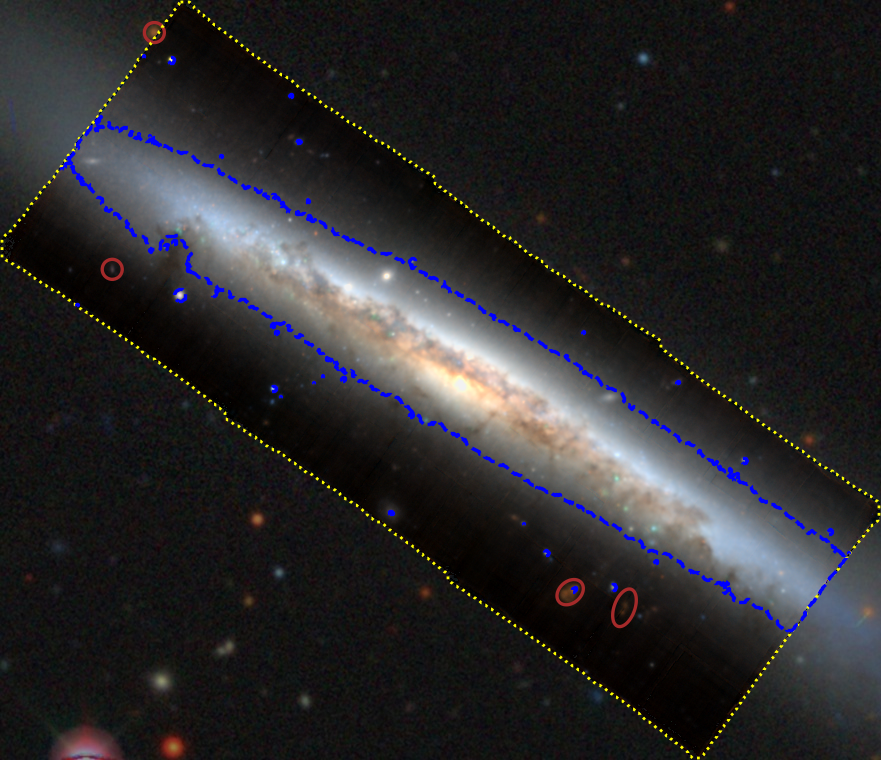
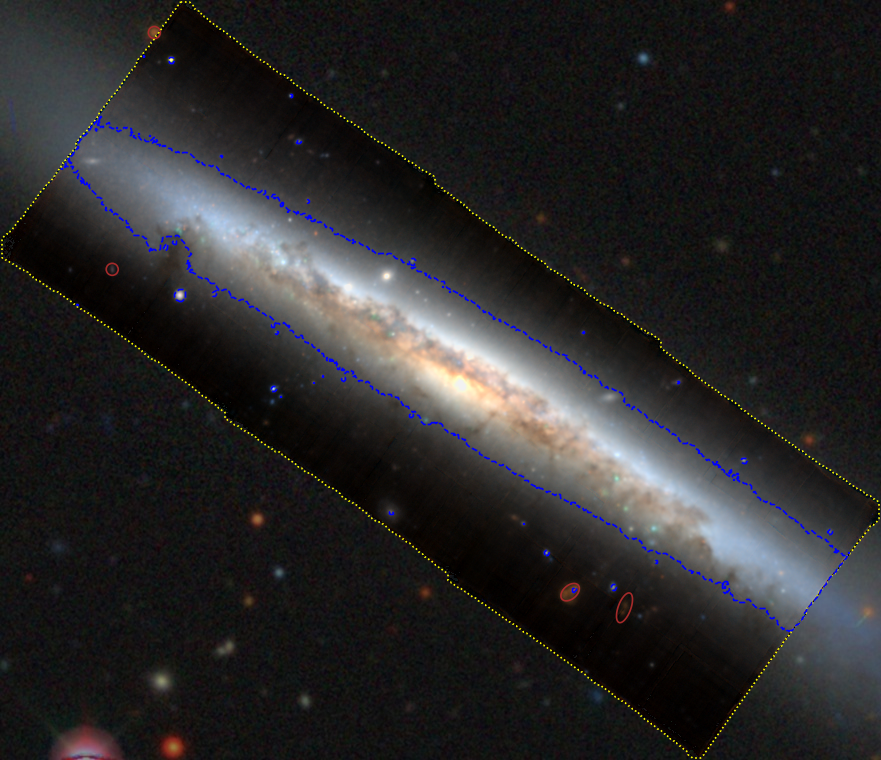
20260615

diff --git a/v3tk_masking_VRI/make_ngist_masks_from_catalogs_VRI.py b/v3tk_masking_VRI/make_ngist_masks_from_catalogs_VRI.py
@@ -84,11 +84,13 @@ explicitly enabled.
         quality (RUWE/IPD/excess-noise thresholds).
      c) "loose": mask any Gaia detection in the FoV (most complete; highest risk of
         masking extragalactic compact sources).
-   - Size model: power-law radius vs Gaia G magnitude, with a seeing floor (>= 1×FWHM),
-     plus a bright-star boost for very bright stars, then padded by gaia_margin_arcsec:
-        r = max(r_min, r_ref * 10^(-0.2*(G - G_ref))) capped at r_max
-   - Implementation note: circles are rasterized directly into the output mask; objects
-     fully outside the FITS footprint are skipped robustly; FoV gating is applied if enabled.
+   - Size model: hybrid seeing/magnitude radius vs Gaia G magnitude. Ordinary stars
+     use a seeing-based 1.2" floor plus a small star-specific margin. Stars with G < 16
+     get magnitude-grown circular masks. Stars with G < 14 are not masked differently,
+     but are logged with a diffraction/saturation warning for later inspection.
+   - Implementation note: circular masks are rasterized directly into the output mask;
+     objects fully outside the FITS footprint are skipped robustly; FoV gating is
+     applied if enabled.
 
 2) TARGET-GALAXY FOOTPRINT (optional but enabled by default as a veto)
      - Goal: avoid masking “background candidates” that fall inside a pragmatic target
@@ -183,7 +185,7 @@ III. KEY CONFIGURATION PARAMETERS (Config dataclass)
 --------------------------------------------------------------------------------
 [Global]
   fwhm_arcsec ............................: seeing FWHM used for floors/overrides
-  gaia_margin_arcsec .....................: padding added to star/galaxy radii
+  gaia_margin_arcsec .....................: padding added to non-star catalog radii
   exclude_center_arcsec ..................: inner radius to force UNMASKED (default 0)
 
 [FoV gating (R_FLUX footprint)]
@@ -204,7 +206,10 @@ III. KEY CONFIGURATION PARAMETERS (Config dataclass)
   (Strict-mode quality thresholds)
     gaia_ruwe_max, gaia_ipd_frac_multi_peak_max, gaia_astrometric_excess_noise_sig_max
   (Star radius model)
-    star_r_min_arcsec, star_r_ref_arcsec, star_g_ref, star_r_max_arcsec
+    star_floor_fwhm_factor, star_r_min_arcsec, star_margin_arcsec
+    star_growth_gmag_threshold, star_r_ref_arcsec, star_g_ref, star_r_max_arcsec
+    star_diffraction_gmag_threshold, star_diffraction_boost
+    star_diffraction_warning_gmag_threshold
 
 [Target Footprint Veto / Contour]
   reject_bg_inside_target_footprint ......: veto masking inside target footprint
@@ -357,18 +362,18 @@ except Exception:
 class Config:
     fwhm_arcsec: float = 1.0                # typical MUSE seeing FWHM, tune if needed
     gaia_gmag_max: float = 21.0             # ignore very faint Gaia sources
-    gaia_margin_arcsec: float = 1.0         # extra padding on radii (registration / wings)
+    gaia_margin_arcsec: float = 0.2         # extra padding on radii (registration / wings)
 
     # MUSE FoV detection from R_FLUX (non-NaN region)
     fov_use_mask: bool = True
     fov_extname: str = "R_FLUX"
     fov_close_size_pix: int = 5
     fov_min_abs: float = 0.0
-    fov_edge_star_buffer_arcsec: float = 5.0
+    fov_edge_star_buffer_arcsec: float = 10.0
     fov_draw_contour: bool = True
     fov_contour_color: str = "yellow"
     fov_contour_linestyle: str = ":"
-    fov_contour_linewidth: float = 1.0
+    fov_contour_linewidth: float = 0.6
     fov_flip_y: bool = True
 
     # Foreground-star selection in Gaia:
@@ -425,14 +430,19 @@ class Config:
     # VizieR PS1 table (II/349/ps1) does not provide robust size/shape columns.
     # When an object passes the *extendedness* test (PSF - Kron), we apply this
     # small fallback radius.
-    gal_fallback_arcsec: float = 3.0
+    gal_fallback_arcsec: float = 1.2
 
-    # star mask radius model (in arcsec) as function of Gaia G magnitude:
-    # r = max(r_min, r_ref * 10^(-0.2*(G-G_ref))) capped at r_max
-    star_r_min_arcsec: float = 1.5
-    star_r_ref_arcsec: float = 5.0
-    star_g_ref: float = 15.0
-    star_r_max_arcsec: float = 25.0
+    # Foreground-star mask sizing
+    star_floor_fwhm_factor: float = 1.0
+    star_r_min_arcsec: float = 1.0
+    star_margin_arcsec: float = 0.2
+    star_growth_gmag_threshold: float = 16.0
+    star_r_ref_arcsec: float = 1.4
+    star_g_ref: float = 16.0
+    star_r_max_arcsec: float = 18.0
+    star_diffraction_gmag_threshold: float = 14.0
+    star_diffraction_boost: float = 1.0
+    star_diffraction_warning_gmag_threshold: float = 14.0
 
     # galaxy-like selection (Pan-STARRS): extended if (PSF - Kron) > threshold
     ps1_ext_thresh: float = 0.25
@@ -441,7 +451,7 @@ class Config:
     ps1_ext_max: float = 1.5
     ps1_rmag_max: float = 22.0              # ignore very faint objects (optional)
     ps1_require_ri_extended: bool = False    # if i-band mags exist, require extendedness in both r and i
-    gal_r_min_arcsec: float = 2.0
+    gal_r_min_arcsec: float = 1.2
     gal_r_max_arcsec: float = 30.0
 
     # Photometric fallback when no cz/z evidence exists (PS1/SkyMapper)
@@ -778,28 +788,38 @@ def fov_center_and_radius(w: WCS, nx: int, ny: int):
 
 
 def star_radius_arcsec_from_g(cfg: Config, gmag: float) -> float:
-    # sanitize
     try:
         g = float(gmag)
     except Exception:
         g = float("nan")
+
     if (not np.isfinite(g)) or (g < -5.0) or (g > 40.0):
-        g = 18.0  # safe fallback
+        g = 18.0
 
+    # Baseline seeing-based floor.
+    r_floor = max(
+        float(cfg.star_r_min_arcsec),
+        float(cfg.star_floor_fwhm_factor) * float(cfg.fwhm_arcsec),
+    )
+    r_floor += float(cfg.star_margin_arcsec)
+
+    # Ordinary/faint stars: just use the floor.
+    if g >= float(cfg.star_growth_gmag_threshold):
+        return float(r_floor)
+
+    # Brighter stars: magnitude-based growth.
     exp = -0.2 * (g - float(cfg.star_g_ref))
-    exp = float(np.clip(exp, -10.0, 10.0))  # hard overflow guard
+    exp = float(np.clip(exp, -10.0, 10.0))
 
-    r = float(cfg.star_r_ref_arcsec) * (10.0 ** exp)
-    r = max(float(cfg.star_r_min_arcsec), min(float(cfg.star_r_max_arcsec), float(r)))
-    r = max(float(r), 1.0 * float(cfg.fwhm_arcsec))
+    r_mag = float(cfg.star_r_ref_arcsec) * (10.0 ** exp)
 
-    # --- NEW: bright-star boost ---
-    if g < 10.0:
-        r *= 1.5
-    elif g < 14.0:
-        r *= 1.25
+    # Extra boost for very bright / diffraction-prone stars.
+    if g < float(cfg.star_diffraction_gmag_threshold):
+        r_mag *= float(cfg.star_diffraction_boost)
 
-    r += float(cfg.gaia_margin_arcsec)
+    r = max(r_floor, r_mag + float(cfg.star_margin_arcsec))
+    r = min(r, float(cfg.star_r_max_arcsec))
+
     return float(r)
 
 
@@ -2023,10 +2043,16 @@ def build_masks_for_one(rfits_path: str, cfg: Config):
                         reason = " | " + gaia_foreground_reason(row, cfg)
                     except Exception:
                         reason = ""
+                diffraction_warning = ""
+                if float(gi) < float(getattr(cfg, "star_diffraction_warning_gmag_threshold", 14.0)):
+                    diffraction_warning = (
+                        " | WARNING: bright Gaia star (G<14); possible diffraction/saturation "
+                        "pattern may affect continuum fitting; inspect residuals"
+                    )
                 print(
                     f"[STAR] {gaia_name} ({gaia_iau}) ra={sc.ra.deg:.6f} dec={sc.dec.deg:.6f} "
                     f"RA={ra_hms} DEC={dec_dms} "
-                    f"GaiaG={float(gi):.2f} r_arcsec={r_arcsec:.2f}{reason}"
+                    f"GaiaG={float(gi):.2f} r_arcsec={r_arcsec:.2f}{diffraction_warning}{reason}"
                 )
             n_star_masked += 1
 
@@ -3176,20 +3202,20 @@ def build_masks_for_one(rfits_path: str, cfg: Config):
             levels=[0.5],
             colors=["blue"],
             linestyles=["--"],
-            linewidths=[1.2],
+            linewidths=[0.6],
             origin="upper",
         )
 
     # Draw outlines (clip to axes so nothing expands the saved canvas)
     for p in star_patches:
         p.set_edgecolor("green")
-        p.set_linewidth(1.2)
+        p.set_linewidth(0.6)
         p.set_clip_on(True)
         ax.add_patch(p)
 
     for p in gal_patches:
         p.set_edgecolor("brown")
-        p.set_linewidth(1.2)
+        p.set_linewidth(0.6)
         p.set_clip_on(True)
         ax.add_patch(p)
 

diff --git a/v3tk_masking_VRI/README.md b/v3tk_masking_VRI/README.md
@@ -143,6 +143,8 @@ Important implementation details:
 
 - The script prefers pixel-locked overlays so the mask can be visually checked against the FITS grid.
 - Gaia masking defaults to a foreground-selection mode based on parallax and proper motion evidence.
+- Gaia foreground-star masks use a hybrid rule: ordinary G >= 16 stars get a 1.2 arcsec seeing-based floor, G < 16 stars get magnitude-grown circular masks, and G < 14 stars are logged with a diffraction/saturation warning instead of receiving any special cross mask.
+- Background-galaxy masks use 1.2 arcsec minimum fallback/floor values, and diagnostic overlay contours are drawn with thinner 0.6 line widths.
 - Legacy DR9 background-galaxy masking uses morphology and photo-z information where available.
 - If a foreground-star mask and background-galaxy candidate overlap even partially, the script rejects the background-galaxy candidate and keeps only the foreground-star mask.
 - Catalog and photometric fallback methods are disabled by default unless the corresponding configuration flag is explicitly enabled.
